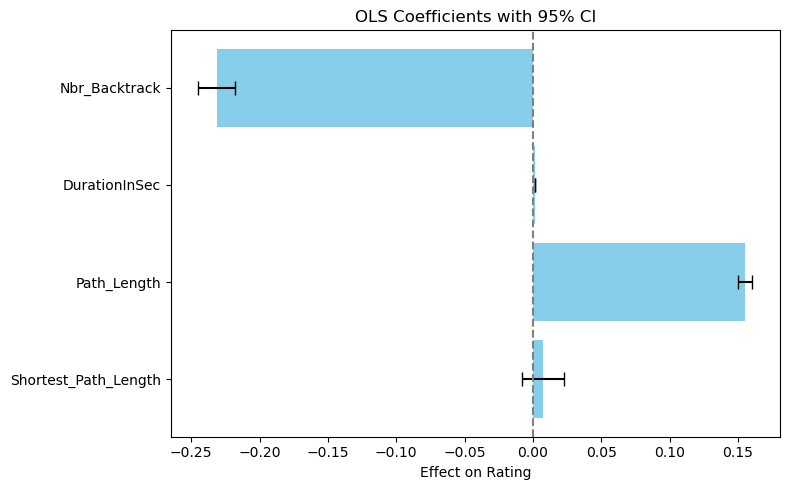
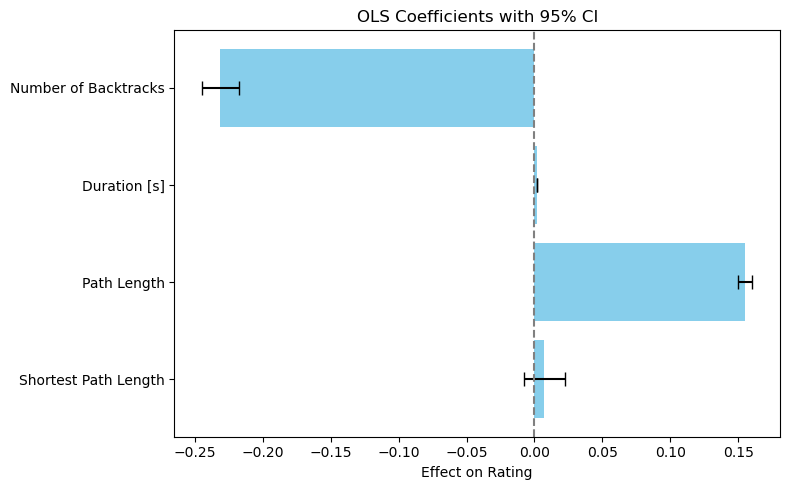
Update section 5 (ratings)

diff --git a/index.md b/index.md
@@ -88,19 +88,63 @@ Games where the user has backtracked have a slight tendency to be unsuccessful.
 
 ## Chapter 5 : The effect of backtracking on user difficulty perception
 
-Ratings are optionally given by the user after finishing the game and range from 1 ("easy") to 5 ("brutal"). We wanted to describe how backtracking affect the ratings (i.e. the difficulty perception). After some data processing, we made the following linear regression:
+Ratings are optionally given by the user after finishing the game and range from 1 ("easy") to 5 ("brutal"). We wanted to describe how backtracking affect the ratings (i.e. the difficulty perception). After some proper data processing, we first performed a naive analysis of univariable relationship between the number of backtracking and the average rating of each game. The first conclusion is that average rating increases as the number of backtracks increases and it was exactly what we hypothetized before doing this analysis.
 
-![OLS1](figures/ols1.png)
+![Rating_vs_Backtrack](figures/Rating_vs_Backtrack.png)
 
-// OLS Reg results
+Nonetheless, to isolate the specific effect of backtracking, we performed Ordinary Least Squares (OLS) regression. We predicted rating using the number of backtrack, game duration, the number of articles visited , and the minimal number of articles seperating the two articles .
 
-Backtracking has a clear and substantial impact on how players perceive the difficulty of the game. Because ratings range from 1 (“easy”) to 5 (“brutal”), higher values indicate a stronger sense of challenge. In the regression, the number of backtracks shows a strong negative coefficient (–0.23), meaning that each additional backtrack is associated with a lower difficulty rating once path length, duration, and shortest‐path length are controlled for. This indicates that players who backtrack frequently do not interpret these movements as signs of a demanding or punishing task. Instead, backtracking seems to reflect exploration that does not translate into a feeling of high difficulty. Overall, the number of backtracks is a robust predictor of lower perceived difficulty.
+#### OLS Regression Results
+
+| Metric | Value | Metric | Value |
+| :--- | :--- | :--- | :--- |
+| **Dep. Variable** | Rating | **R-squared** | 0.294 |
+| **Model** | OLS | **Adj. R-squared** | 0.294 |
+| **Method** | Least Squares | **F-statistic** | 2955 |
+**Log-Likelihood** | -38066 | **Prob (F-statistic)** | 0.00 |
+
+#### Coefficients
+
+| Variable | coef | std err | t | P>\|t\| | [0.025 | 0.975] |
+| :--- | :--- | :--- | :--- | :--- | :--- | :--- |
+| **Intercept** | 1.0532 | 0.025 | 41.833 | 0.000 | 1.004 | 1.103 |
+| **Number of Backtrack** | -0.2313 | 0.007 | -33.478 | 0.000 | -0.245 | -0.218 |
+| **Duration [s]** | 0.0017 | 5.31e-05 | 32.605 | 0.000 | 0.002 | 0.002 |
+| **Path Length** | 0.1553 | 0.003 | 58.347 | 0.000 | 0.150 | 0.161 |
+| **Shortest Path Length** | 0.0074 | 0.008 | 0.951 | 0.341 | -0.008 | 0.023 |
+
+![OLS1](figures/OLS1.png)
+
+Counterintuitively, backtracking has a clear and substantial impact on how players perceive the difficulty of the game. In the regression, the number of backtracks shows a strong negative coefficient (–0.23), meaning that each additional backtrack is associated with a lower difficulty rating once path length, duration, and shortest path length are controlled for. This indicates that players who backtrack frequently do not interpret these movements as signs of a demanding or punishing task. Instead, backtracking seems to reflect exploration that does not translate into a feeling of high difficulty. Overall, the number of backtracks is a robust predictor of lower perceived difficulty.
+
+#### OLS Regression Results (Standardized)
+
+| Metric | Value | Metric | Value |
+| :--- | :--- | :--- | :--- |
+| **Dep. Variable** | Rating | **R-squared** | 0.294 |
+| **Model** | OLS | **Adj. R-squared** | 0.294 |
+| **Method** | Least Squares | **F-statistic** | 2955 |
+ **Log-Likelihood** | -38066 | **Prob (F-statistic)** | 0.00 |
 
 
-![OLS2](figures/ols2.png)
 
-// OLS2 reg results
+#### Coefficients
 
+| Variable | coef | std err | t | P>\|t\| | [0.025 | 0.975] |
+| :--- | :--- | :--- | :--- | :--- | :--- | :--- |
+| **Intercept** | 2.2618 | 0.006 | 410.609 | 0.000 | 2.251 | 2.273 |
+| **Number of Backtrack** | -0.2754 | 0.008 | -33.478 | 0.000 | -0.292 | -0.259 |
+| **Duration [s]** | 0.2412 | 0.007 | 32.605 | 0.000 | 0.227 | 0.256 |
+| **Path Length** | 0.5768 | 0.010 | 58.347 | 0.000 | 0.557 | 0.596 |
+| **Shortest Path Length** | 0.0053 | 0.006 | 0.951 | 0.341 | -0.006 | 0.016 |
+
+![OLS2](figures/OLS2.png)
+
+Using standardized coefficients makes it possible to compare the relative strength of each predictor on the same scale. For ratings, the standardized effect of backtracking is strongly negative (β = –0.28). This means that, when all variables are expressed in standard deviation units, an increase of one standard deviation in the number of backtracks leads to a decrease of about 0.28 standard deviations in the perceived difficulty rating. Among all predictors, backtracking is the only negative driver of difficulty perception and one of the strongest predictors overall, second only to path length.
+
+Our naive analysis could not show this effect since bactracking strongly affect the game duration and path length. More backtracking is associated with longer path length and longer game duration as shown in the following plots. Each additional backtrack increases the total path length by about 2.3 articles and adds roughly 51 seconds to the completion time. Backtracking therefore makes trajectories longer and substantially slows players down. However, the negative effect of backtracking on rating is likely independent of path length and game duration, maybe due to exploration behavior or other cognitive factors.
+
+![Backtrack_Duration_Length](figures/Backtrack_Duration_Length.png)
 
 ## Chapter 6 : Conclusion
 
@@ -110,7 +154,7 @@ With this analysis of the Wikispeedia dataset, we were able to conclude that:
 - an experienced Wikispeedia user ...
 - the average Wikispeedia user backatracks more when it comes to subjects like science 
 - backatracking has little effect on overall success in the game 
-- users who backtrack actaully find the game easier than those who don't 
+- Counterintuitively, more backtracking is linked to lower difficulty ratings.
 
 These all lead us to conclude that backtracking will not affect your game negatively. You may actually find your games easier if you allow yourself to backtrack and it will not make you more likely to fail.
 
